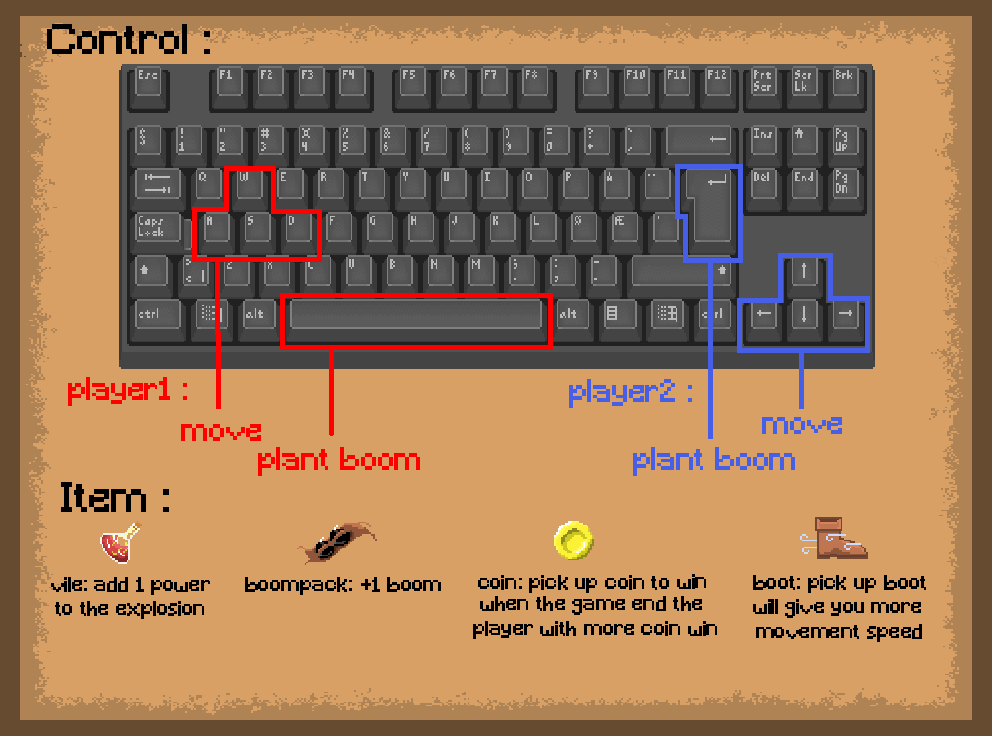
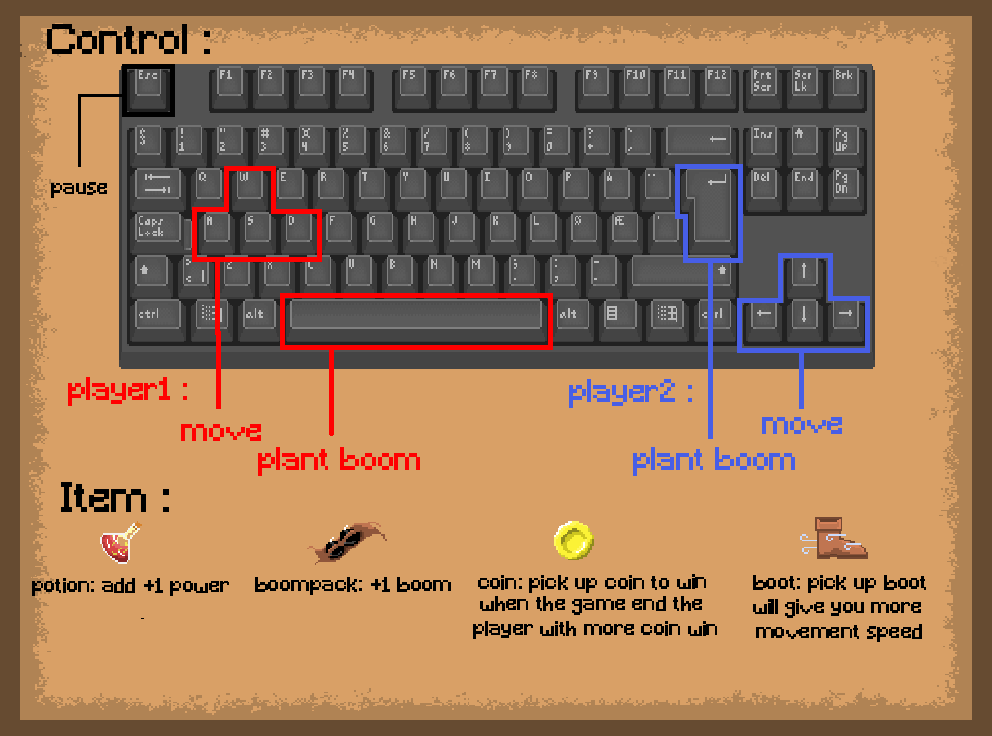
fix
fix

Changed region(s): [[0.0312, 0.6875, 0.4688, 0.8438], [0.0625, 0.0625, 0.1875, 0.1562], [0.0312, 0.25, 0.125, 0.2812]]

diff --git a/src/main/java/application/GameObject/Player.java b/src/main/java/application/GameObject/Player.java
@@ -176,7 +176,7 @@ public class Player extends Object
             case BOOT:
                 bootlevel--;
                 break;
-            case VILE:
+            case POTION:
                 powerlevel--;
                 break;
             default:
@@ -202,7 +202,7 @@ public class Player extends Object
             case BOOT:
                 bootlevel++;
                 break;
-            case VILE:
+            case POTION:
                 powerlevel++;
                 break;
             default:

diff --git a/src/main/java/application/Level.java b/src/main/java/application/Level.java
@@ -382,7 +382,7 @@ public class Level extends Object{
                     return itemTypes.BOOT;
                 case 6:
                 case 7:
-                    return itemTypes.VILE;
+                    return itemTypes.POTION;
                 default:
                     break;
             }

diff --git a/src/main/java/application/GameObject/ImageManeger.java b/src/main/java/application/GameObject/ImageManeger.java
@@ -65,7 +65,7 @@ public class ImageManeger {
                    return boomupgrade;
                 case BOOT:
                     return boot;
-                case VILE:
+                case POTION:
                     return vile;
                 default:   
                     return null;

diff --git a/src/main/java/application/GameObject/Item.java b/src/main/java/application/GameObject/Item.java
@@ -10,7 +10,7 @@ public class Item extends Object{
         GOLDCOIN,
         BOOMUPGRADE,
         BOOT,
-        VILE;
+        POTION;
     }
 
     public Image itemImage;
